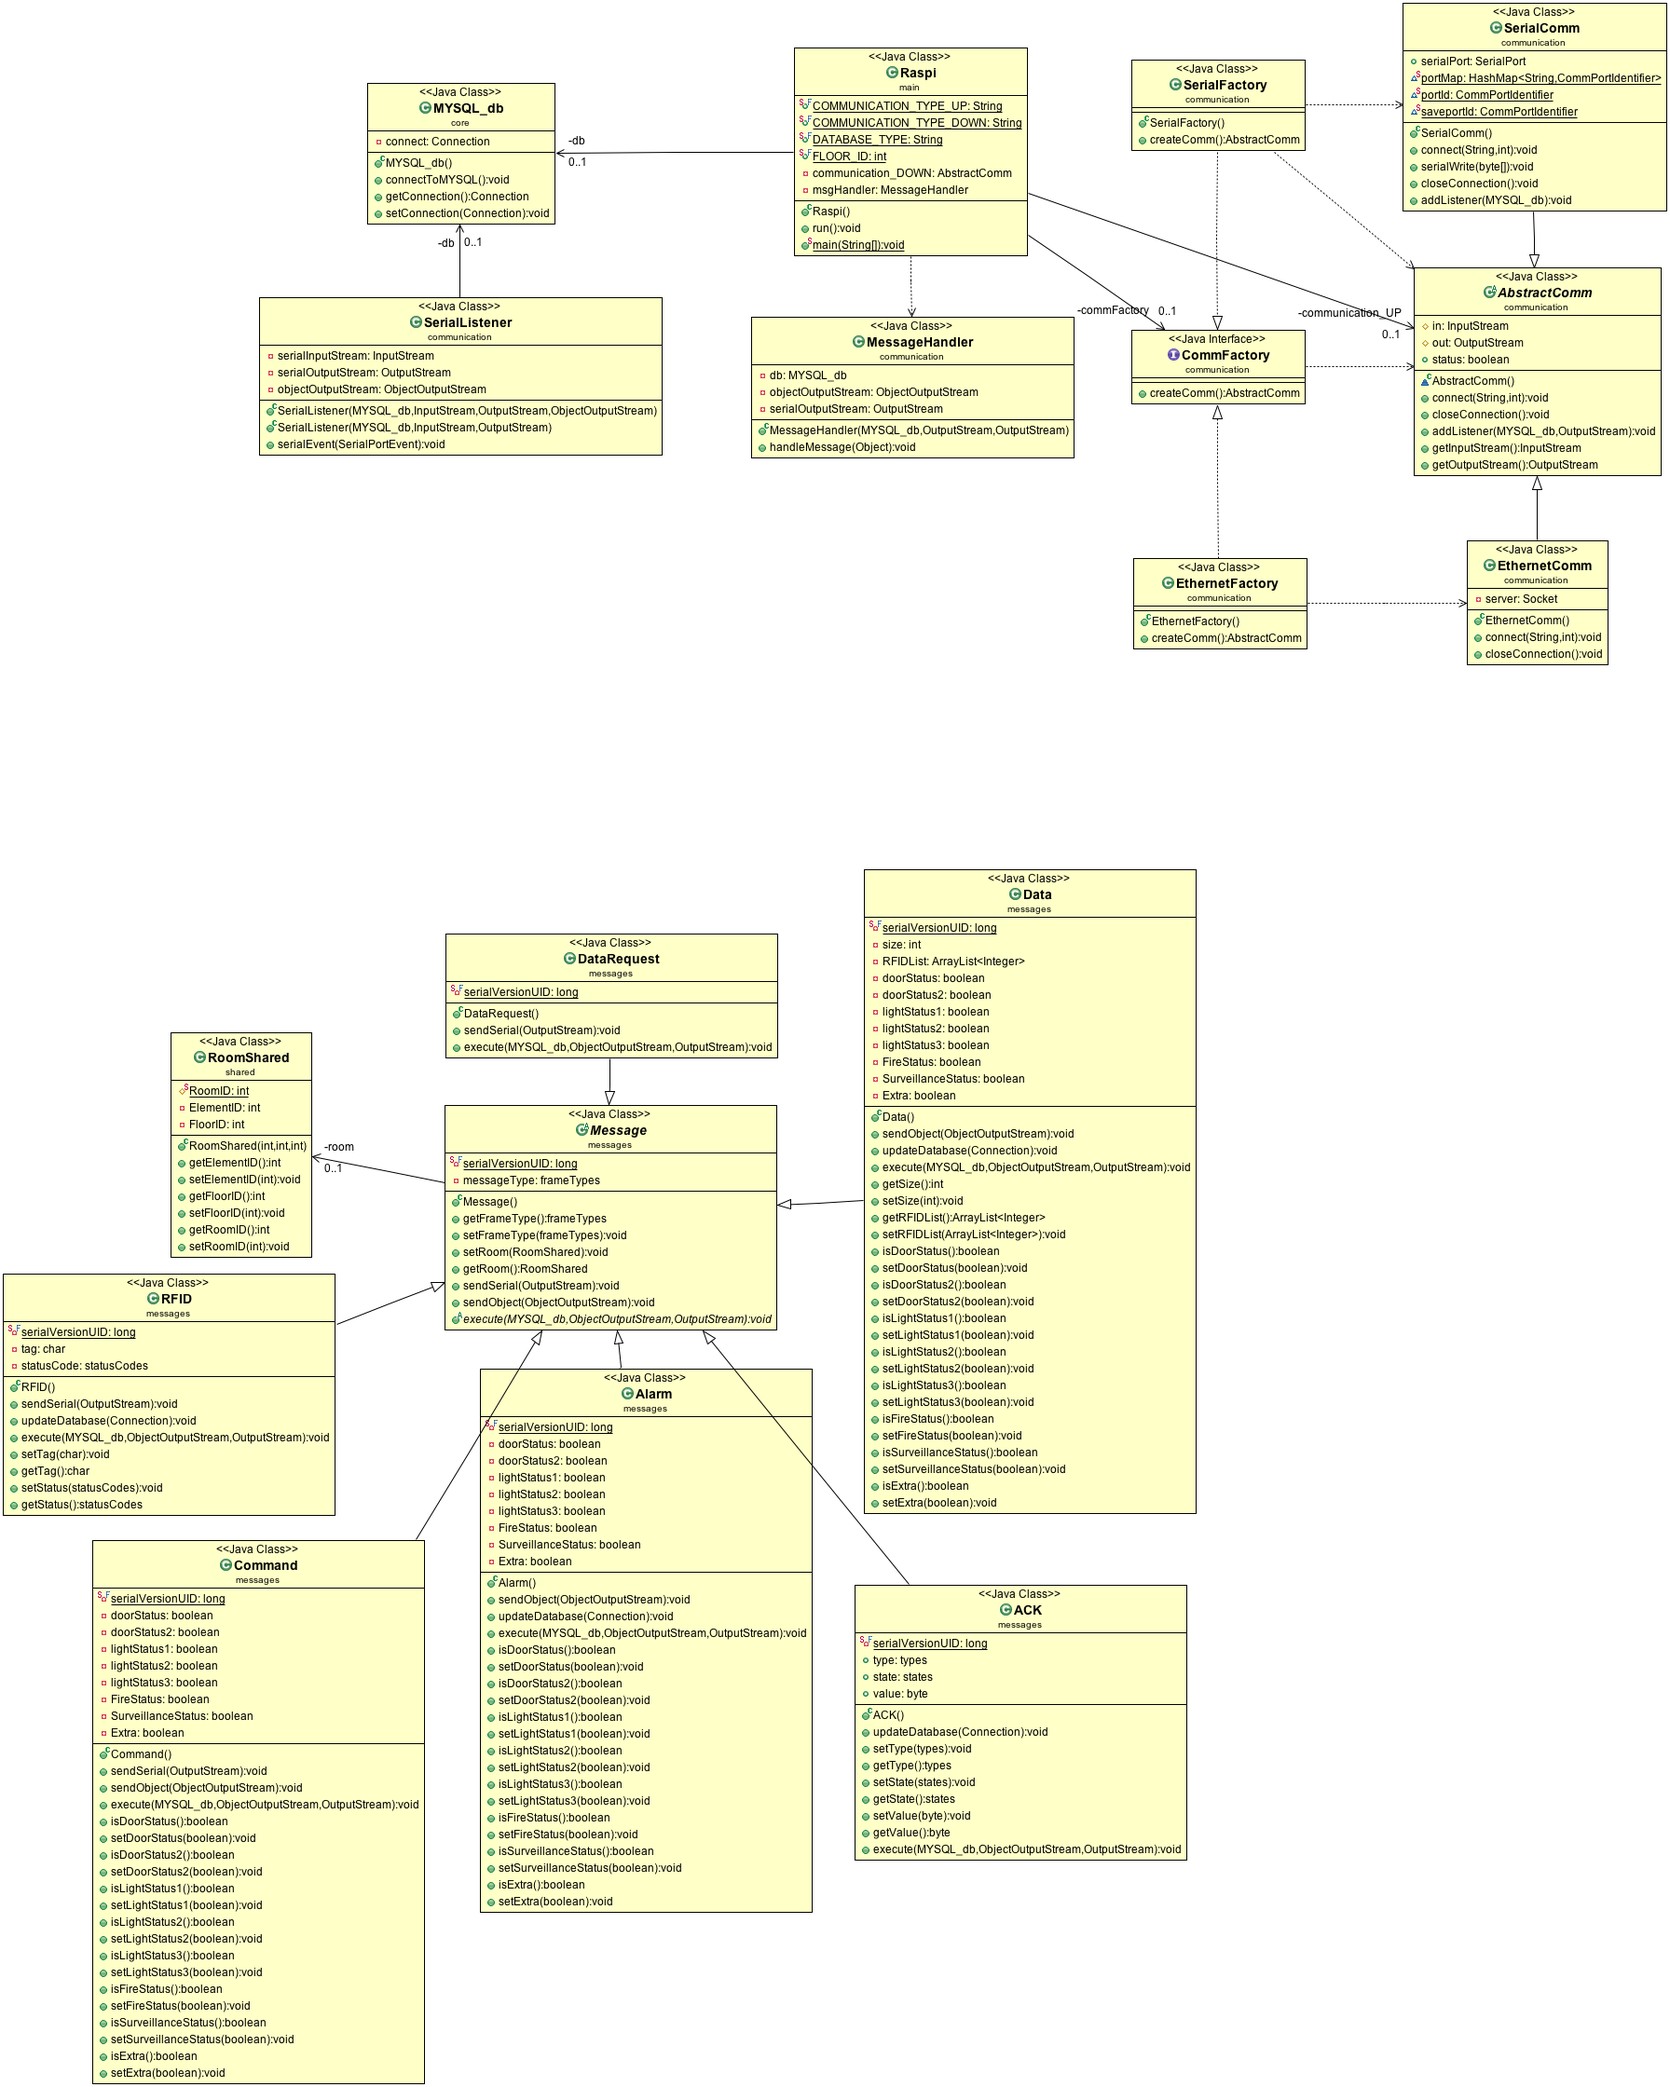
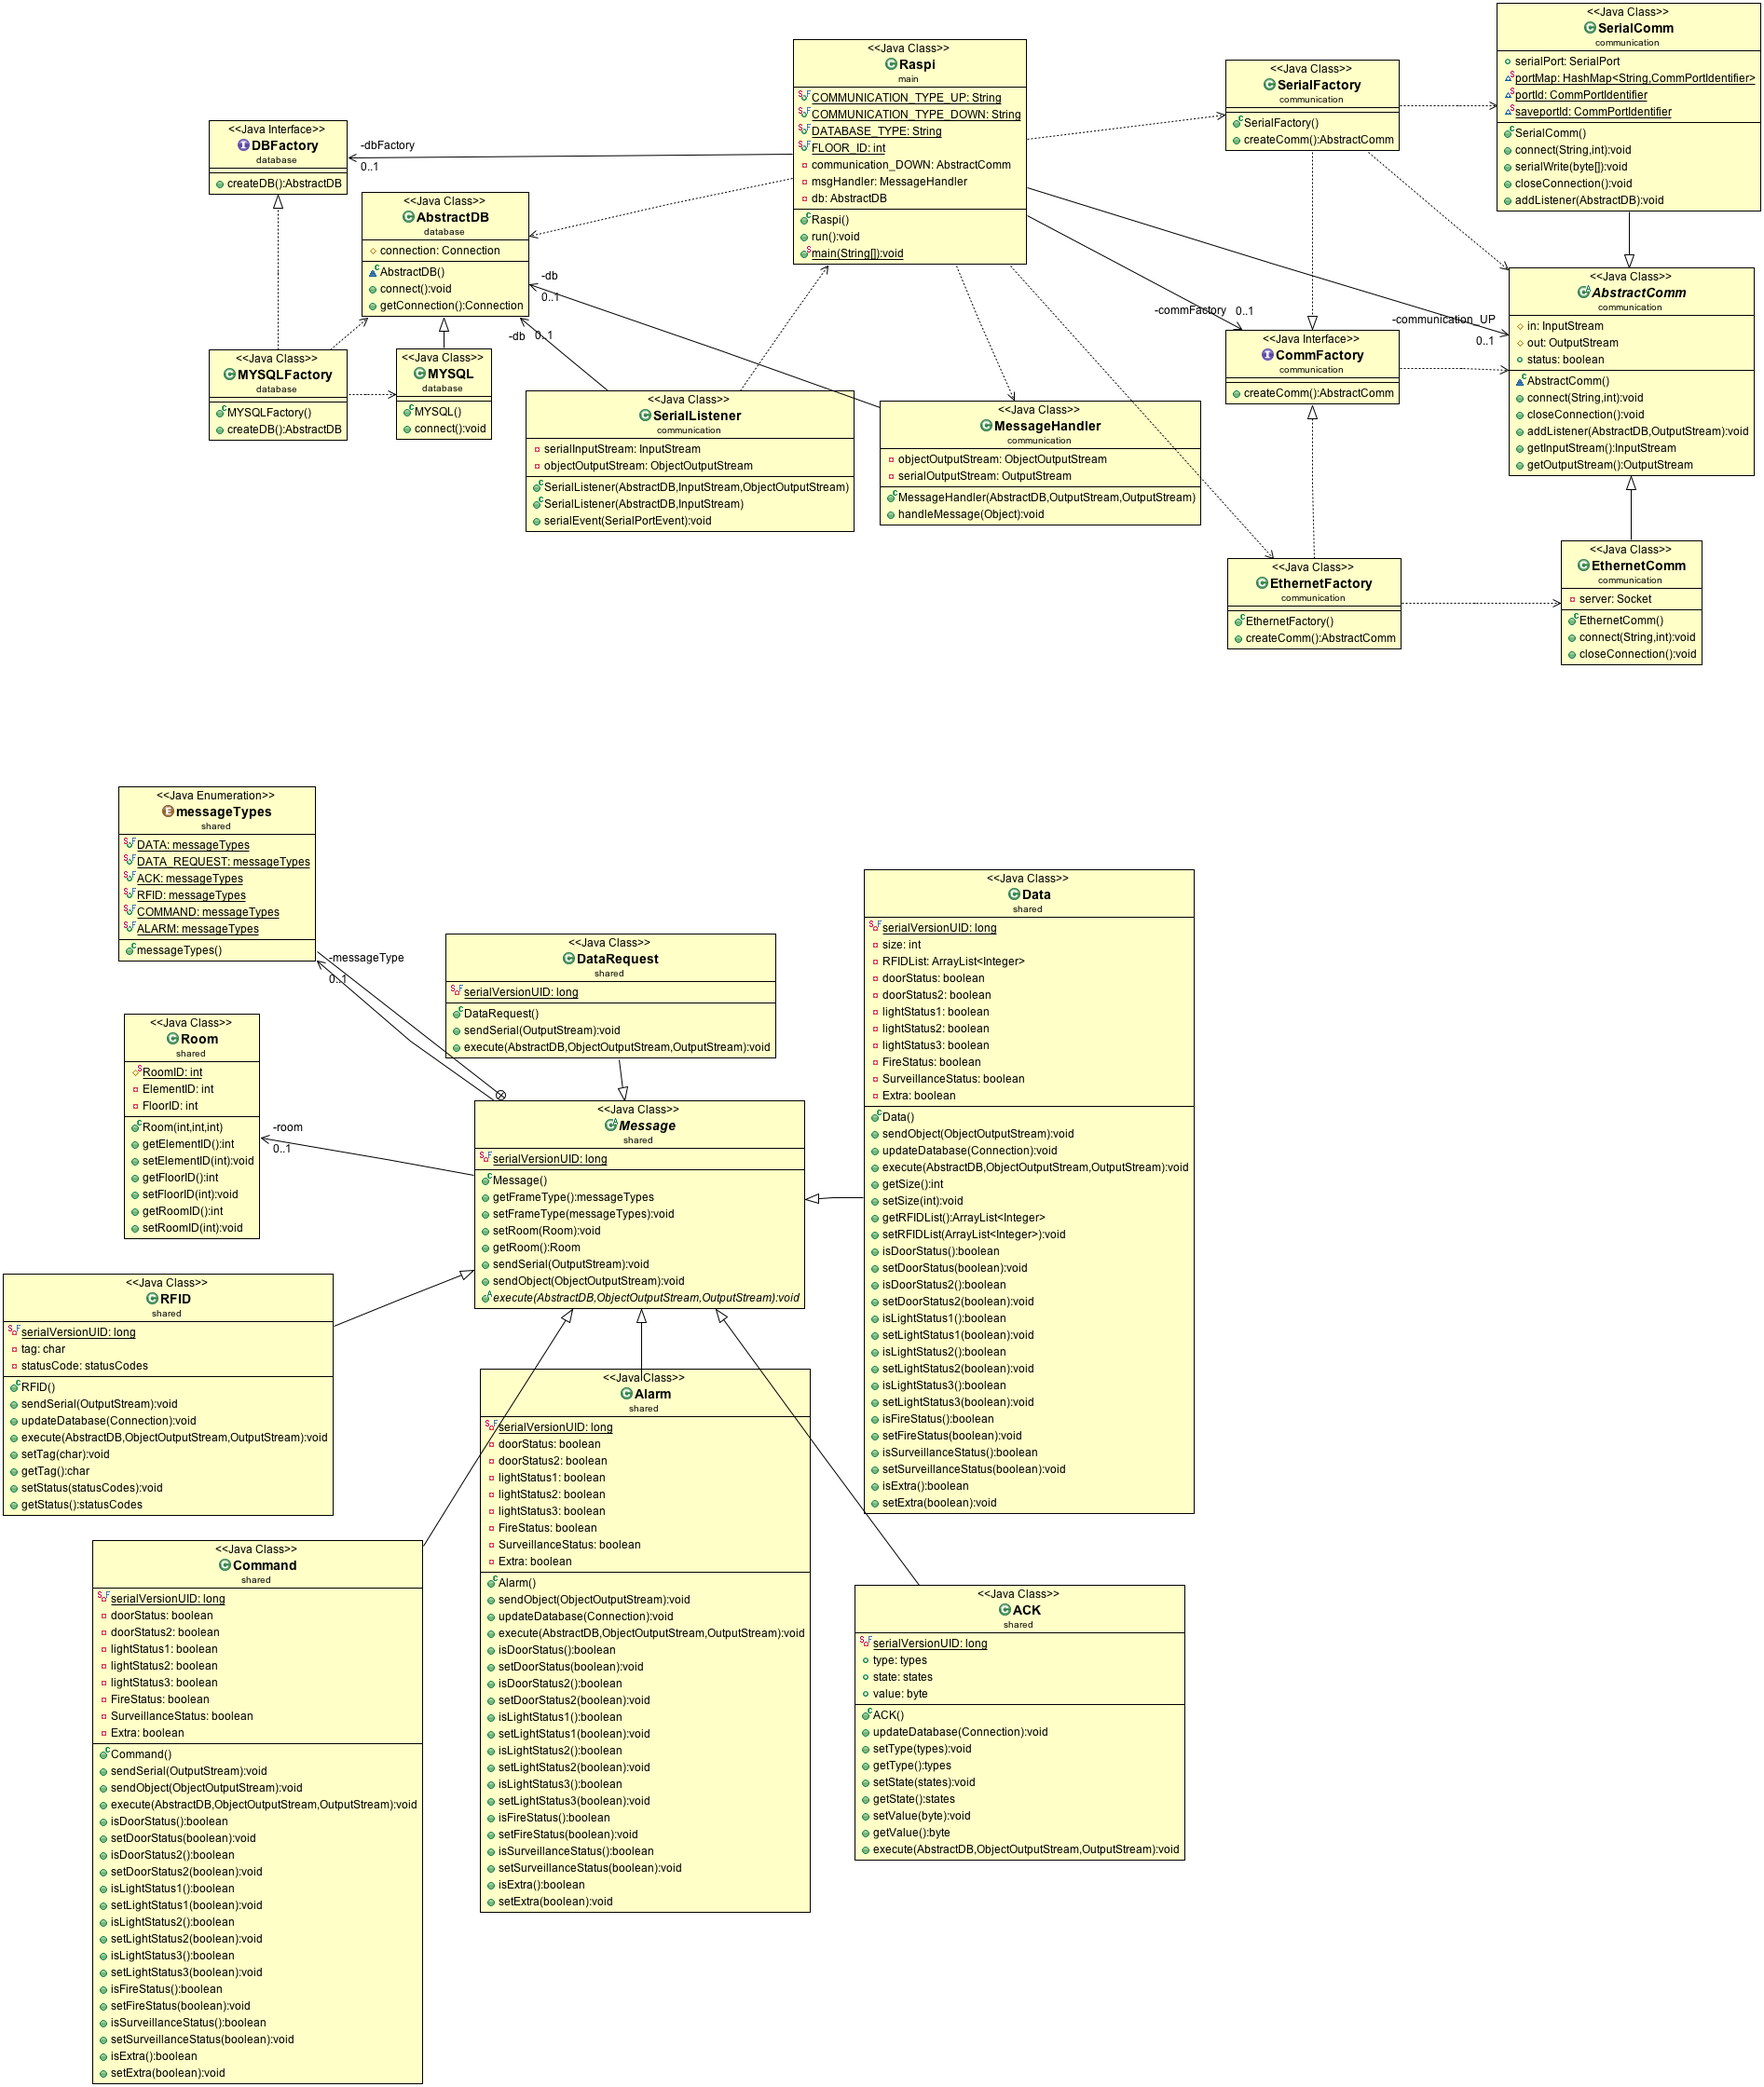
changed png image

Changed region(s): [[0.0, 0.375, 0.7188, 1.0], [0.0938, 0.0, 1.0, 0.3125], [0.5625, 0.75, 0.625, 0.7812]]

diff --git a/RaspiServer/src/communication/SerialListener.java b/RaspiServer/src/communication/SerialListener.java
@@ -12,7 +12,7 @@ import shared.ACK;
 import shared.Alarm;
 import shared.Data;
 import shared.Message;
-import shared.RoomShared;
+import shared.Room;
 import shared.ACK.states;
 import shared.ACK.types;
 import main.Raspi;
@@ -59,7 +59,7 @@ public class SerialListener implements SerialPortEventListener {
                         		System.out.println("Start of frame");
                         		
                         		int source = (int) readBuffer[i+1]; //SOURCE (3B): [ElementID (1B), RoomID (1B), FloorID (1B)]
-                        		RoomShared room = new RoomShared(1,source, Raspi.FLOOR_ID);
+                        		Room room = new Room(1,source, Raspi.FLOOR_ID);
                         		Message msg;
                         		char type = (char) readBuffer[i+2]; //third byte
                         		switch (type) {  //TYPE (1B)

diff --git a/RaspiServer/src/main/Raspi.java b/RaspiServer/src/main/Raspi.java
@@ -5,7 +5,7 @@ import java.io.IOException;
 import java.io.ObjectOutputStream;
 import shared.Alarm;
 import shared.Command;
-import shared.RoomShared;
+import shared.Room;
 import communication.AbstractComm;
 import communication.CommFactory;
 import communication.EthernetFactory;
@@ -117,7 +117,7 @@ public class Raspi extends Thread {
 				
 				//TEST 2: ALARM
 				Alarm alrm = new Alarm();
-				alrm.setRoom(new RoomShared(1,1,1));
+				alrm.setRoom(new Room(1,1,1));
 				try {
 					alrm.sendObject((ObjectOutputStream) communication_UP.getOutputStream());
 				} catch (IOException e) {

diff --git a/RaspiServer/src/shared/Message.java b/RaspiServer/src/shared/Message.java
@@ -25,7 +25,7 @@ public abstract class Message implements Serializable {
 
 	public enum messageTypes { DATA, DATA_REQUEST, ACK, RFID, COMMAND, ALARM }
 	private messageTypes messageType;
-	private RoomShared room;
+	private Room room;
 	
 	//getter
 	public messageTypes getFrameType(){
@@ -38,12 +38,12 @@ public abstract class Message implements Serializable {
 	}
 	
 	//setter
-	public void setRoom(RoomShared room){
+	public void setRoom(Room room){
 		this.room = room;
 	}
 	
 	//getter
-	public RoomShared getRoom(){
+	public Room getRoom(){
 		return room;
 	}
 

diff --git a/RaspiServer/src/shared/Room.java b/RaspiServer/src/shared/Room.java
@@ -11,12 +11,12 @@ import java.util.ArrayList;
  * 
  * **/
 
-public class RoomShared {
+public class Room {
 	protected static int RoomID;
 	private int ElementID;
 	private int FloorID;
 	
-	public RoomShared(int ElementID, int RoomID, int FloorID){
+	public Room(int ElementID, int RoomID, int FloorID){
 		this.ElementID = ElementID;
 		this.FloorID = FloorID;
 		this.RoomID = RoomID;

diff --git a/RaspiServer/src/test/EthernetCommClient.java b/RaspiServer/src/test/EthernetCommClient.java
@@ -18,7 +18,7 @@ import java.net.UnknownHostException;
 
 import shared.Data;
 import shared.Message;
-import shared.RoomShared;
+import shared.Room;
 
 
 public class EthernetCommClient extends Thread {

diff --git a/RaspiServer/src/communication/AbstractComm.java b/RaspiServer/src/communication/AbstractComm.java
@@ -13,7 +13,7 @@ import java.util.TooManyListenersException;
 
 import shared.Data;
 import shared.Message;
-import shared.RoomShared;
+import shared.Room;
 import database.AbstractDB;
 
 /** 
